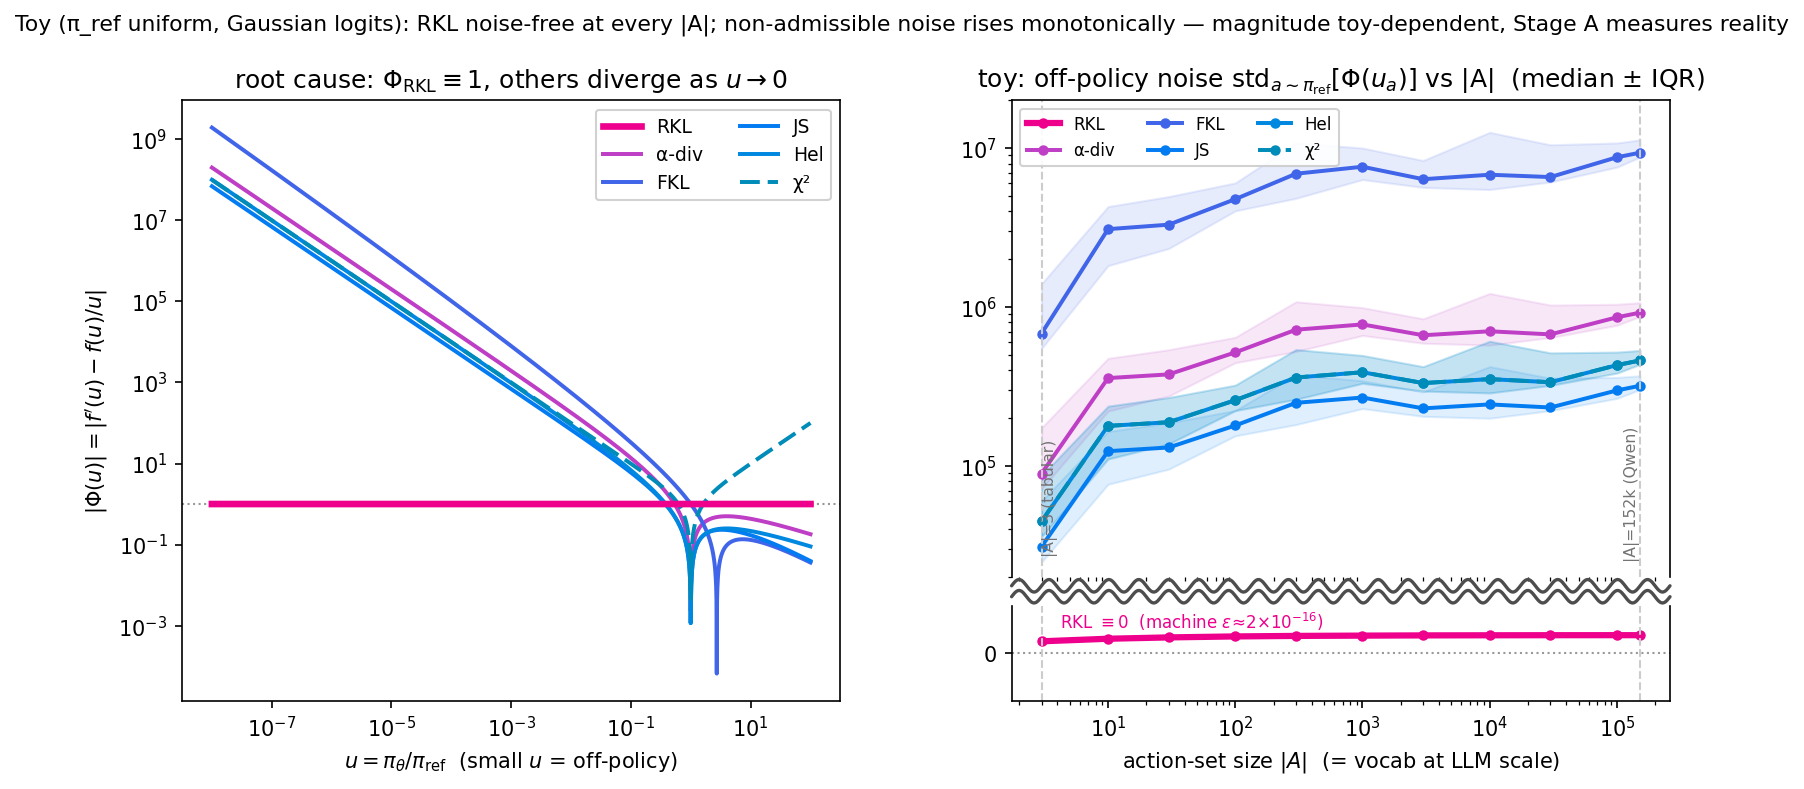
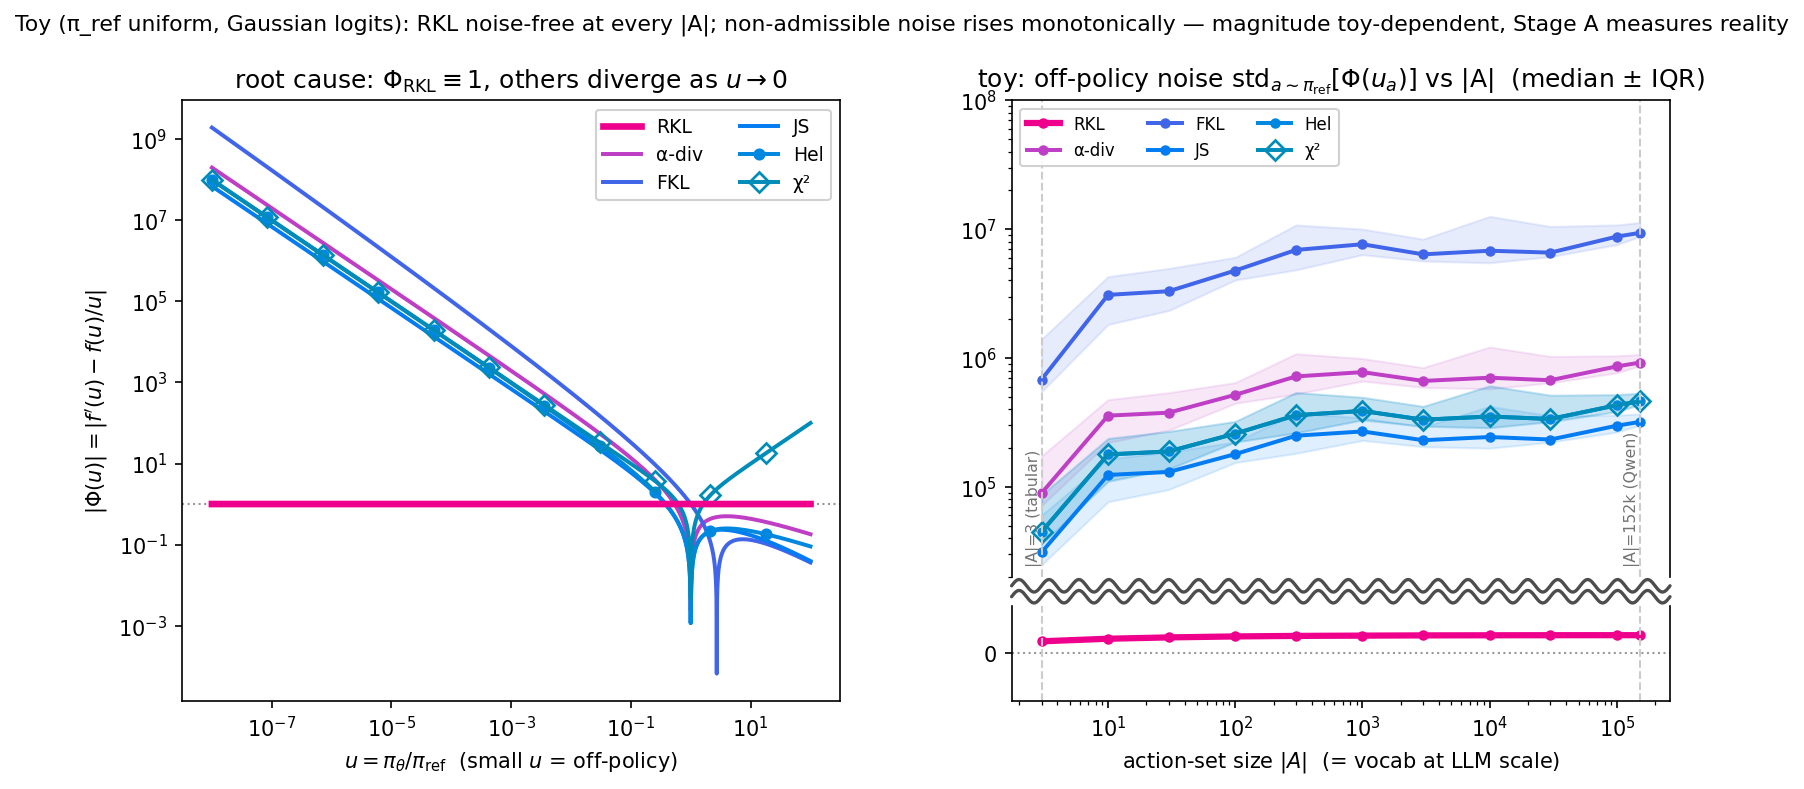
fig_toy_ablation: chi2 open-diamond marker, legend/label/tick cleanup
- chi2: distinguish from Hel by marker shape (open diamond vs filled circle),
  solid line in both panels -- consistent, no more lone dashed curve
- move legends off the curves (left: upper-right empty quadrant; right: raise
  ylim to 1e8 so the upper-left legend clears the FKL band)
- |A|=3 label -> left of its vline, into the empty margin (was hidden by curves)
- drop the 'RKL == 0 (machine eps)' annotation on the RKL floor
- remove the x-tick marks abutting the wavy break (tick_params which='both')

Hel and chi2 coincide because f(0+)=1 for both: Phi(u)->-f(0+)/u off-policy, so
std[Phi] ~ |f(0+)|*std[1/u]; the noise ratios match f(0+) (a-div 2, JS ln2, RKL 0).

diff --git a/python/fig_toy_ablation.py b/python/fig_toy_ablation.py
@@ -60,17 +60,21 @@ def main():
 
     # ---- Left: Φ(u) vs u (the root cause; exact, not toy) ----
     u = np.logspace(-8, 2, 2000)
-    LS_L = {"chi2": (0, (5, 2))}                    # χ² dashed: it coincides with Hel (both Φ→−1/u) as u→0
     for k in KEYS:
         phi = np.atleast_1d(REG[k].Phi(u)) * np.ones_like(u)
-        axL.plot(u, np.abs(phi), color=COLORS[k], lw=3.2 if k == "kl" else 1.9,
-                 ls=LS_L.get(k, "-"), zorder=8 if k == "kl" else 3, label=SHORT[k])
+        kw = dict(color=COLORS[k], lw=3.2 if k == "kl" else 1.9,
+                  zorder=8 if k == "kl" else 3, label=SHORT[k])
+        if k in ("hel", "chi2"):                     # Hel & χ² share the u→0 asymptote (both Φ≈−1/u,
+            kw.update(marker="D" if k == "chi2" else "o", markevery=185,   # since f(0⁺)=1 for both);
+                      ms=6.5 if k == "chi2" else 4.5, markeredgewidth=1.3,  # markers keep them distinct
+                      markerfacecolor="none" if k == "chi2" else COLORS[k])
+        axL.plot(u, np.abs(phi), **kw)
     axL.axhline(1.0, color="0.6", ls=":", lw=1, zorder=1)
     axL.set_xscale("log"); axL.set_yscale("log")
     axL.set_xlabel(r"$u = \pi_\theta/\pi_{\mathrm{ref}}$  (small $u$ = off-policy)")
     axL.set_ylabel(r"$|\Phi(u)| = |f'(u)-f(u)/u|$")
     axL.set_title(r"root cause: $\Phi_{\mathrm{RKL}}\equiv 1$, others diverge as $u\to0$")
-    axL.legend(ncol=2, fontsize=9, framealpha=0.9)
+    axL.legend(ncol=2, fontsize=9, framealpha=0.9, loc="upper right")
 
     # ---- Right (broken y-axis): non-admissible band on top, RKL ≈ 0 on bottom ----
     data = {}
@@ -80,35 +84,37 @@ def main():
             vals = np.array([offpolicy_phi_std(k, na, seed=s) for s in range(N_SEEDS)])
             med.append(np.median(vals)); lo.append(np.quantile(vals, .25)); hi.append(np.quantile(vals, .75))
         data[k] = (np.array(med), np.array(lo), np.array(hi))
-    LS_R = {"chi2": (0, (5, 2))}                     # χ² dashed: its std ≈ Hel's (both Φ→−1/u) at every |A|
     for k in KEYS:                                  # top: everyone except RKL, zoomed to their band
         if k == "kl":
             continue
         med, lo, hi = data[k]
-        axRt.plot(A_GRID, med, color=COLORS[k], lw=1.9, ls=LS_R.get(k, "-"), marker="o", ms=4)
+        mk = "D" if k == "chi2" else "o"             # χ² open diamond: its std ≈ Hel's at every |A|
+        axRt.plot(A_GRID, med, color=COLORS[k], lw=1.9, marker=mk,
+                  ms=6.5 if k == "chi2" else 4, markeredgewidth=1.3 if k == "chi2" else 1.0,
+                  markerfacecolor="none" if k == "chi2" else COLORS[k])
         axRt.fill_between(A_GRID, lo, hi, color=COLORS[k], alpha=0.12)
-    axRt.set_xscale("log"); axRt.set_yscale("log"); axRt.set_ylim(2e4, 2e7)
+    axRt.set_xscale("log"); axRt.set_yscale("log"); axRt.set_ylim(2e4, 1e8)
     # legend lists all 6 (incl. RKL, whose flat line lives in the bottom sub-panel below)
     handles = [Line2D([0], [0], color=COLORS[k], lw=3.0 if k == "kl" else 1.9,
-                      ls=LS_R.get(k, "-"), marker="o", ms=4, label=SHORT[k]) for k in KEYS]
+                      marker="D" if k == "chi2" else "o",
+                      ms=6.5 if k == "chi2" else 4, markeredgewidth=1.3 if k == "chi2" else 1.0,
+                      markerfacecolor="none" if k == "chi2" else COLORS[k], label=SHORT[k]) for k in KEYS]
     axRt.legend(handles=handles, ncol=3, fontsize=8, framealpha=0.9, loc="upper left")
     axRt.set_title(r"toy: off-policy noise $\mathrm{std}_{a\sim\pi_{\mathrm{ref}}}[\Phi(u_a)]$ vs |A|  (median ± IQR)")
-    axRt.text(3, 2.5e4, " |A|=3 (tabular)", fontsize=7.5, color="0.45", rotation=90, va="bottom")
-    axRt.text(152000, 2.5e4, "|A|=152k (Qwen) ", fontsize=7.5, color="0.45", rotation=90, va="bottom", ha="right")
+    axRt.text(2.6, 2.4e4, "|A|=3 (tabular)", fontsize=7.5, color="0.45", rotation=90, va="bottom", ha="center")
+    axRt.text(152000, 2.4e4, "|A|=152k (Qwen) ", fontsize=7.5, color="0.45", rotation=90, va="bottom", ha="right")
 
     axRb.plot(A_GRID, data["kl"][0], color=COLORS["kl"], lw=3.0, marker="o", ms=4)   # bottom: RKL ≈ 0
     axRb.axhline(0.0, color="0.6", ls=":", lw=1)
     axRb.set_xscale("log"); axRb.set_ylim(-6e-16, 6e-16); axRb.set_yticks([0])
-    axRb.text(A_GRID[0] * 1.4, 2.6e-16, r"RKL $\equiv 0$  (machine $\varepsilon\!\approx\!2{\times}10^{-16}$)",
-              fontsize=8, color=COLORS["kl"], va="bottom")
     for xa in (3, 152000):
         axRt.axvline(xa, color="0.8", ls="--", lw=1); axRb.axvline(xa, color="0.8", ls="--", lw=1)
     axRb.set_xlabel(r"action-set size $|A|$  (= vocab at LLM scale)")
 
-    # broken y-axis: hide the adjacent spines; the wavy break itself is drawn after layout
-    # (it needs the panels' final figure positions).
-    axRt.spines["bottom"].set_visible(False); axRt.tick_params(bottom=False, labelbottom=False)
-    axRb.spines["top"].set_visible(False)
+    # broken y-axis: hide the adjacent spines + the x-tick marks that sit against the break;
+    # the wavy break itself is drawn after layout (it needs the panels' final figure positions).
+    axRt.spines["bottom"].set_visible(False); axRt.tick_params(which="both", bottom=False, labelbottom=False)
+    axRb.spines["top"].set_visible(False); axRb.tick_params(which="both", top=False)
 
     fig.suptitle("Toy (π_ref uniform, Gaussian logits): RKL noise-free at every |A|; non-admissible "
                  "noise rises monotonically — magnitude toy-dependent, Stage A measures reality",
